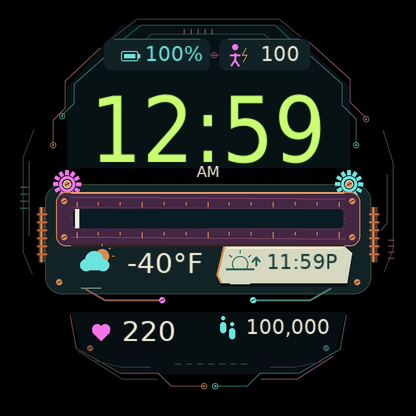
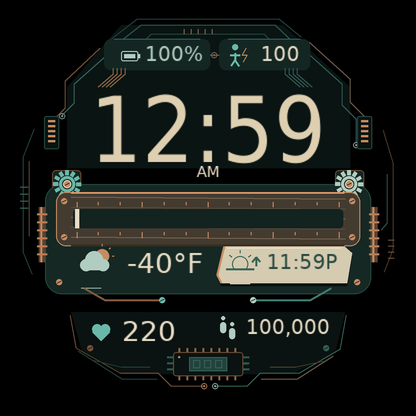
Make Foundry default and refine robotics backplane artwork

diff --git a/tools/render_preview.py b/tools/render_preview.py
@@ -95,11 +95,28 @@ def architecture(c):
     for f in range(7):c.line((175+f*11,364),(181+f*11,364),'#334945')
     trace(c,[(92,360),(121,367),(150,367)],'#243f42');trace(c,[(324,361),(295,367),(270,367)],'#3f314c');screw(c,90,348,'#75513d');screw(c,326,348,'#365e59')
 
-def render(missing=False,fahrenheit=True,stale=False,ambient=None,up=False,time='10:08',temperature=72,heart=64,steps=8432,battery=78,clock=None,suffix=None,body_battery=76,theme=0):
+def robotics(c):
+    for x in (44,357):
+        c.rect(x,116,15,33,'#080f13',True,2);c.rect(x,116,15,33,'#334945',False,2)
+        for pin in range(5):c.rect(x+4,120+pin*5,7,2,'copper')
+    for ribbon in range(4):
+        trace(c,[(113+ribbon*4,68),(113+ribbon*4,74),(98+ribbon*4,87)],'#8b6544')
+        trace(c,[(285+ribbon*4,68),(285+ribbon*4,74),(300+ribbon*4,87)],'#335657')
+    for x in (52,335):c.rect(x,170,29,27,'#102226',True,4);c.rect(x,170,29,27,'#6b4839',False,4)
+    for pin in range(8):
+        c.line((179+pin*8,348),(179+pin*8,355),'#8b6544',2);c.line((179+pin*8,373),(179+pin*8,380),'#8b6544',2)
+    for row in range(3):
+        c.line((167,357+row*6),(175,357+row*6),'#335657',2);c.line((241,357+row*6),(249,357+row*6),'#335657',2)
+    c.rect(173,352,70,24,'#080f13',True,3);c.rect(173,352,70,24,'#6b4839',False,3);c.rect(189,357,38,14,'#224142');c.rect(189,357,38,14,'#3c6260',False)
+    for core in range(3):c.rect(193+core*11,360,7,8,'#3c6260',False)
+    c.circle(179,357,1,'copper',True)
+
+def render(missing=False,fahrenheit=True,stale=False,ambient=None,up=False,time='10:08',temperature=72,heart=64,steps=8432,battery=78,clock=None,suffix=None,body_battery=76,theme=1):
     c=Canvas(theme)
     if ambient is not None:
         c.text(208,92+86*ambient,'Ambient',time,'#606775'); return c.finish()
     architecture(c)
+    robotics(c)
     c.rect(45,184,326,110,'panel',True,17);c.rect(45,184,326,110,'#344741',False,17)
     for x in (42,374):
         c.line((x,207),(x,262),'#5d3527',7);c.line((x-1,207),(x-1,262),'copper',2)
@@ -139,11 +156,11 @@ def main():
     docs=ROOT/'docs'; docs.mkdir(exist_ok=True); face=render(); face.save(docs/'preview-416.png')
     hero=Image.new('RGB',(1200,780),'#0b111a'); d=ImageDraw.Draw(hero)
     from PIL import ImageFont
-    d.text((74,50),'PRISMELIER / REACTOR',font=ImageFont.truetype('/usr/share/fonts/truetype/dejavu/DejaVuSans.ttf',30),fill=COL['copper'])
+    d.text((74,50),'PRISMELIER / FOUNDRY',font=ImageFont.truetype('/usr/share/fonts/truetype/dejavu/DejaVuSans.ttf',30),fill=COL['copper'])
     d.text((74,102),'Impossible materials. Unapologetically digital.',font=ImageFont.truetype('/usr/share/fonts/truetype/dejavu/DejaVuSans-ExtraLight.ttf',23),fill=COL['ink'])
     hero.paste(face.resize((544,544),Image.Resampling.LANCZOS),(74,174))
-    d.text((686,223),'TEMPERATURE, REIMAGINED',font=ImageFont.truetype('/usr/share/fonts/truetype/dejavu/DejaVuSans.ttf',19),fill=COL['pink'])
-    d.text((686,264),'Liquid-violet Fahrenheit bar\nCopper, ceramic, otherworldly timber\nWeather and sun events, together\nNo hands. No labels. Just the essentials.',font=ImageFont.truetype('/usr/share/fonts/truetype/dejavu/DejaVuSans.ttf',17),fill=COL['ink'],spacing=16)
+    d.text((686,223),'A ROBOTICS BACKPLANE FOR YOUR WRIST',font=ImageFont.truetype('/usr/share/fonts/truetype/dejavu/DejaVuSans.ttf',19),fill='#6ab8aa')
+    d.text((686,264),'Patinated teal. Copper. Ceramic.\nConnector headers and copper flex traces\nProcessor cells and actuator housings\nBody Battery + device charge, distinct.',font=ImageFont.truetype('/usr/share/fonts/truetype/dejavu/DejaVuSans.ttf',17),fill=COL['ink'],spacing=16)
     d.text((686,477),'Forerunner 265 / 416 × 416',font=ImageFont.truetype('/usr/share/fonts/truetype/dejavu/DejaVuSans.ttf',16),fill=COL['cyan'])
     d.text((686,533),'DESIGN RENDER\nIllustrative data, not a simulator capture',font=ImageFont.truetype('/usr/share/fonts/truetype/dejavu/DejaVuSans.ttf',14),fill=COL['copper'],spacing=8)
     hero.save(docs/'preview.png')
@@ -152,20 +169,22 @@ def main():
         sheet.paste(im,(416*n,0));ds.text((416*n+24,438),label,fill=COL['ink'])
     sheet.save(docs/'states.png')
     render(time='12:59',temperature=-40,heart=220,steps=100000,battery=100,up=True,clock='11:59P',suffix='AM',body_battery=100).save(docs/'edge-case-416.png')
-    board=Image.new('RGB',(1120,1180),'#0b111a');bd=ImageDraw.Draw(board)
-    title_font=ImageFont.truetype('/usr/share/fonts/truetype/dejavu/DejaVuSans.ttf',29)
-    desc_font=ImageFont.truetype('/usr/share/fonts/truetype/dejavu/DejaVuSans.ttf',16)
-    note_font=ImageFont.truetype('/usr/share/fonts/truetype/dejavu/DejaVuSans.ttf',15)
-    bd.text((40,28),'PRISMELIER / FOUR COLOR STUDIES',font=title_font,fill='#e8e3d8')
-    bd.text((40,74),'Same composition. Fahrenheit. Body Battery added at the top right.',font=desc_font,fill='#a9b3be')
-    for index,t in enumerate(THEMES):
-        face=render(theme=index);face.save(docs/('theme-'+t['name'].lower()+'.png'))
-        x=60+(index%2)*550;y=123+(index//2)*502
-        bd.text((x,y),f'{index+1:02d}  '+t['name'].upper(),font=desc_font,fill='#'+t['colors']['D98B52'])
-        bd.text((x,y+26),t['description'],font=note_font,fill='#a9b3be')
-        board.paste(face,(x,y+61))
-    bd.text((40,1142),'DESIGN RENDERS / Illustrative values, not simulator or watch screenshots',font=note_font,fill='#a9b3be')
-    board.save(docs/'themes.png')
+    import sys
+    if '--refresh-studies' in sys.argv or not (docs/'themes.png').exists():
+        board=Image.new('RGB',(1120,1180),'#0b111a');bd=ImageDraw.Draw(board)
+        title_font=ImageFont.truetype('/usr/share/fonts/truetype/dejavu/DejaVuSans.ttf',29)
+        desc_font=ImageFont.truetype('/usr/share/fonts/truetype/dejavu/DejaVuSans.ttf',16)
+        note_font=ImageFont.truetype('/usr/share/fonts/truetype/dejavu/DejaVuSans.ttf',15)
+        bd.text((40,28),'PRISMELIER / FOUR COLOR STUDIES',font=title_font,fill='#e8e3d8')
+        bd.text((40,74),'Same composition. Fahrenheit. Body Battery added at the top right.',font=desc_font,fill='#a9b3be')
+        for index,t in enumerate(THEMES):
+            face=render(theme=index);face.save(docs/('theme-'+t['name'].lower()+'.png'))
+            x=60+(index%2)*550;y=123+(index//2)*502
+            bd.text((x,y),f'{index+1:02d}  '+t['name'].upper(),font=desc_font,fill='#'+t['colors']['D98B52'])
+            bd.text((x,y+26),t['description'],font=note_font,fill='#a9b3be')
+            board.paste(face,(x,y+61))
+        bd.text((40,1142),'DESIGN RENDERS / Illustrative values, not simulator or watch screenshots',font=note_font,fill='#a9b3be')
+        board.save(docs/'themes.png')
     for i in range(3):render(ambient=i).save(docs/f'ambient-{i}.png')
     print('Rendered design previews, NOT simulator screenshots')
 if __name__=='__main__':main()

diff --git a/tests/test_project.py b/tests/test_project.py
@@ -151,7 +151,7 @@ class ProjectStructureTests(unittest.TestCase):
     def test_settings_contract(self):
         properties = ET.parse(ROOT / "resources/settings/properties.xml").getroot()
         values = {p.attrib["id"]: p.text for p in properties}
-        self.assertEqual(values, {"Palette": "0", "TimeFormat": "0", "TemperatureUnits": "2"})
+        self.assertEqual(values, {"Palette": "1", "TimeFormat": "0", "TemperatureUnits": "2"})
         settings = ET.parse(ROOT / "resources/settings/settings.xml").getroot()
         expected = {"Palette": {"0", "1", "2", "3"}, "TimeFormat": {"0", "1", "2"},
                     "TemperatureUnits": {"0", "1", "2"}}
@@ -326,11 +326,13 @@ class DataSourceContractTests(unittest.TestCase):
         # Background craftsmanship is awake-only. Guard its call site as well
         # as the sparse sleep body so later refactors cannot light it in AOD.
         update = view.split("function onUpdate(dc) {", 1)[1].split("\n    function ", 1)[0]
-        self.assertEqual(update.count("drawArchitecture(dc);"), 1)
-        self.assertNotIn("drawArchitecture(", before_branch)
         self.assertLess(update.index("return;"), update.index("data.refresh(false);"))
-        self.assertLess(update.index("data.refresh(false);"), update.index("drawArchitecture(dc);"))
-        self.assertEqual(view.count("drawArchitecture(dc);"), 1)
+        for method in ("drawArchitecture", "drawRobotics"):
+            call = method + "(dc);"
+            self.assertEqual(update.count(call), 1)
+            self.assertNotIn(method + "(", before_branch)
+            self.assertLess(update.index("data.refresh(false);"), update.index(call))
+            self.assertEqual(view.count(call), 1)
 
 
 @unittest.skipUnless(Image is not None, "Pillow not installed; optional font-asset raster checks skipped")

diff --git a/README.md b/README.md
@@ -2,7 +2,7 @@
 
 **Impossible materials. An everyday time machine.**
 
-A bespoke, futuristic-steampunk digital watch face for the **Garmin Forerunner 265**. Acid-green numerals float above a liquid-violet Fahrenheit bar. Violet timber, ribbed copper, petrol enamel and an asymmetric porcelain solar insert turn the weather panel into an impossible little machine. The face contains no branding, date, word labels or outer clock indices.
+A bespoke, futuristic-steampunk digital watch face for the **Garmin Forerunner 265**. The default **Foundry** theme pairs warm ivory numerals with a patinated-teal Fahrenheit bar. Aged copper, petrol enamel and an asymmetric ceramic solar insert sit on a meticulously routed robotics backplane: pin headers, copper flex traces, actuator housings and a miniature processor package. The face contains no branding, date, word labels or outer clock indices.
 
 ![Prismelier design render, with illustrative values](docs/preview.png)
 
@@ -56,18 +56,18 @@ In 12-hour mode, the time has **AM/PM** and a solar time uses **A/P** (for examp
 
 ## Preferences
 
-Temperature defaults explicitly to **Fahrenheit**, regardless of the watch's unit setting. Time format follows the watch. Project properties also support optional Celsius/device units, explicit 12/24-hour format and four complete material/color palettes. [Settings instructions](docs/INSTALL.md#preferences) include the reliable source/simulator path for sideloaded builds. Phone settings for unpublished sideloaded apps are not guaranteed.
+Temperature defaults explicitly to **Fahrenheit**, regardless of the watch's unit setting. Time format follows the watch. Project properties also support optional Celsius/device units, explicit 12/24-hour format and four complete material/color palettes. **Foundry (`Palette = 1`) is the default.** [Settings instructions](docs/INSTALL.md#preferences) include the reliable source/simulator path for sideloaded builds. Phone settings for unpublished sideloaded apps are not guaranteed.
 
 ## Four color studies
 
 ![Four consistent theme studies, with illustrative readings](docs/themes.png)
 
 - **0 · Reactor**: the vivid original, lime / liquid violet / cyan
-- **1 · Foundry**: aged copper, warm timber and patinated teal
+- **1 · Foundry (default)**: aged copper, warm timber and patinated teal
 - **2 · Porcelain**: warm ivory, charcoal and brushed bronze
 - **3 · Nocturne**: midnight blue, amber and ice
 
-Every color study uses the same implemented layout, including the new Body Battery score. Select `Palette` in the project settings; see the [sideload settings notes](docs/INSTALL.md#preferences). Theme colors come from `resources/themes.json`, compiled into `source/PrismelierPalette.mc` by `tools/generate_palettes.py`, and used by the design renderer too. This keeps the comparison consistent with the source. The ambient time stays the same sparse, dim gray across themes.
+These preserved color studies show the shared composition with Body Battery before the final robotics-detail pass. The latest Foundry hero above shows the added connectors, actuator housings and processor package. Select `Palette` in the project settings; see the [sideload settings notes](docs/INSTALL.md#preferences). Theme colors come from `resources/themes.json`, compiled into `source/PrismelierPalette.mc` by `tools/generate_palettes.py`, and used by the design renderer too. This keeps the color definitions consistent with the source; the earlier study images are retained to document the design choice. The ambient time stays the same sparse, dim gray across themes. `python tools/render_preview.py --refresh-studies` regenerates the full study sheet against the newest geometry when explicitly desired.
 
 The **left top capsule** is device charge (`%`). The **right top capsule**, with the person/energy bolt, is Body Battery (a score, without `%`). It is a wellness estimate, not a medical measurement. [Official API and supported devices](https://developer.garmin.com/connect-iq/api-docs/Toybox/SensorHistory.html#getBodyBatteryHistory-instance_function).
 

diff --git a/docs/QA.md b/docs/QA.md
@@ -3,32 +3,34 @@
 Prismelier is a source project with design renders. It has not been built for a
 Forerunner 265, run in Garmin's simulator, or installed on physical hardware.
 
-## Recorded result, 1 October 2026, 05:35 UTC
+## Recorded result, 1 October 2026, 05:45 UTC
 
 - SDK 9.2.0 and Pillow available: **18 tests passed**, including a fresh parser
-  run against all source files, 52 API owner/method pairs and argument
+  run against all source files, 53 API owner/method pairs and argument
   counts, 61 module constants, and weather symbols checked against Garmin's
   bundled documentation
 - Standard-library-only run, with SDK environment variables removed and Python
   site packages disabled: **12 tests passed, 6 optional checks skipped**
 - Palette consistency: **4 themes × 67 color entries** match the committed
   `themes.json`; the ambient ink and black background are unchanged in every
-  palette. Settings and Data both accept all four theme indexes
+  palette. Settings and Data both accept all four theme indexes, with Foundry
+  (`Palette=1`) now the default
 - Ambient asset estimate: **2,582 lit pixels maximum**, **1.899%** of the
   135,948-pixel circular screen model, at `08:08`, including the conservative
   one-pixel halo. All 2,880 12/24-hour clock strings and all three bands were
   covered. The three all-times band unions were pairwise disjoint
 
-The latest parser check includes the revised vivid steampunk layout, default
+The latest parser check includes the selected Foundry robotics layout, default
 Fahrenheit temperature bar, grouped weather and solar icons, centered AM/PM,
 compact large step counts, asymmetric porcelain insert, and explicitly typed
 Gregorian weekday/month indexes. The final background uses chamfered ceramic
 substrates, fine copper/teal/violet circuit traces, asymmetric junctions,
 microbridges, and an engraved lower backplane. The battery readout uses the
-current 20px Small font. The new `drawArchitecture`, `trace`, and `junction`
-helpers were included in this parser and API check. A static guard confirms
-that background architecture is called only after the sleep branch returns;
-it is excluded from the time-only ambient display. No source changed during
+current 20px Small font. The new `drawRobotics` helper adds pin headers, parallel
+flex traces, actuator housings, and QFN processor cells. Its `dc.drawRectangle`
+calls pass the official SDK name/argument-count audit. Static guards confirm
+that both `drawArchitecture` and `drawRobotics` are called only after the sleep
+branch returns; they are excluded from the time-only ambient display. No source changed during
 that parser run. This run also covers timestamped local Body Battery history,
 its separate person-and-bolt score, and the Reactor, Foundry, Porcelain, and
 Nocturne palettes. Device charge remains a distinct percentage. The new local
@@ -41,7 +43,7 @@ Source fingerprints for that run:
 PrismelierApp.mc   e8696d7cd4acb9ec2ab2971572a5d1ee5a5d80017d23ff7c345fc0eb3dabbb14
 PrismelierData.mc  3568805c9c6fc492c46ff3661a01849705f46c7dd394f35c1b7a58cb42def084
 PrismelierPalette.mc  80d4f9049b5ef5f31f9f817dc25a5144644a1203f72a46aed3b7a60ede543239
-PrismelierView.mc  7d3d267f2dece4ce748ef08a0ad832c31ef5176c11d6ae383da6a70e672fc06a
+PrismelierView.mc  fa93e25343a6d36b7a9f885c03e6ffb58a2c4fdd99f9edb5dd00dfb82f073142
 ```
 
 ## Automated checks

diff --git a/docs/INSTALL.md b/docs/INSTALL.md
@@ -109,7 +109,7 @@ The reliable options for a **sideloaded, unpublished** development build are:
 
 - Change the watch's **time format**; it is followed by default. Temperature defaults explicitly to **Fahrenheit**, independent of system units
 - Or edit `resources/settings/properties.xml` before rebuilding:
-  - `Palette`: `0` Reactor (lime/violet/cyan), `1` Foundry (copper/teal), `2` Porcelain (ivory/charcoal), `3` Nocturne (midnight/amber)
+  - `Palette`: `0` Reactor (lime/violet/cyan), `1` Foundry (copper/teal, default), `2` Porcelain (ivory/charcoal), `3` Nocturne (midnight/amber)
   - `TimeFormat`: `0` watch setting, `1` 12-hour, `2` 24-hour
   - `TemperatureUnits`: `2` Fahrenheit (default), `1` Celsius, `0` watch setting
 - In the simulator, use its app-settings editor to exercise the provided settings schema
